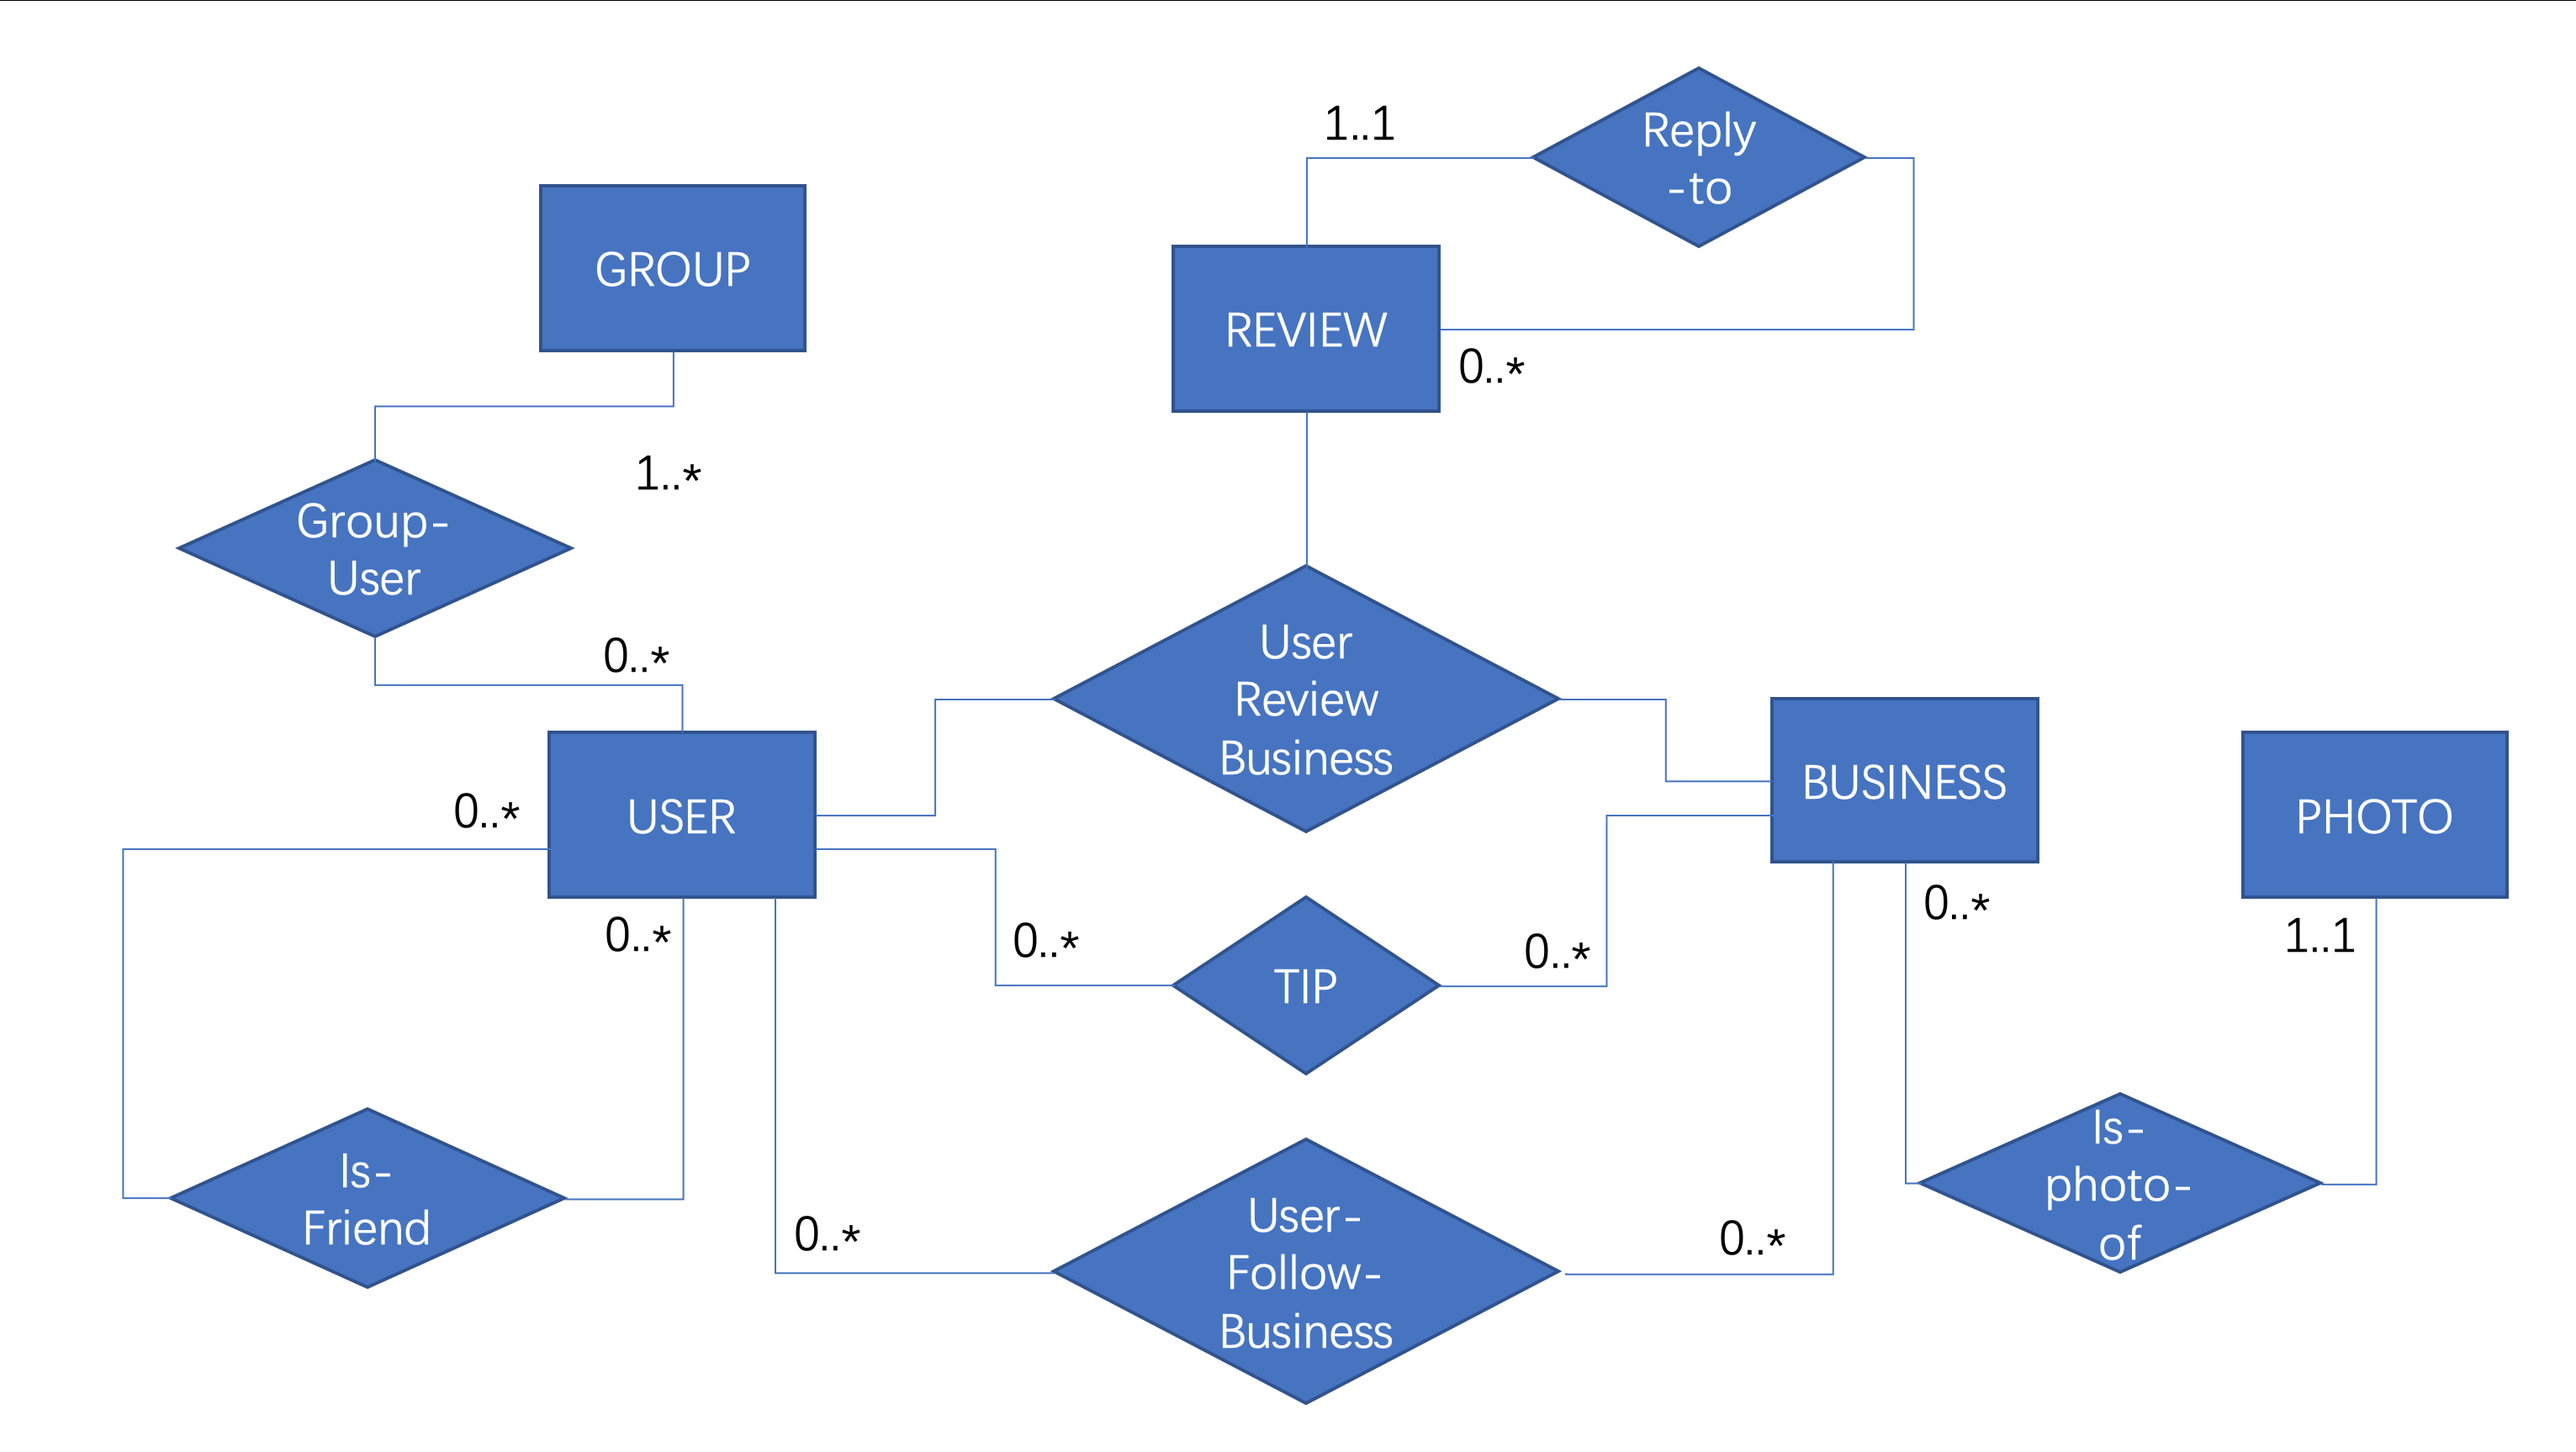
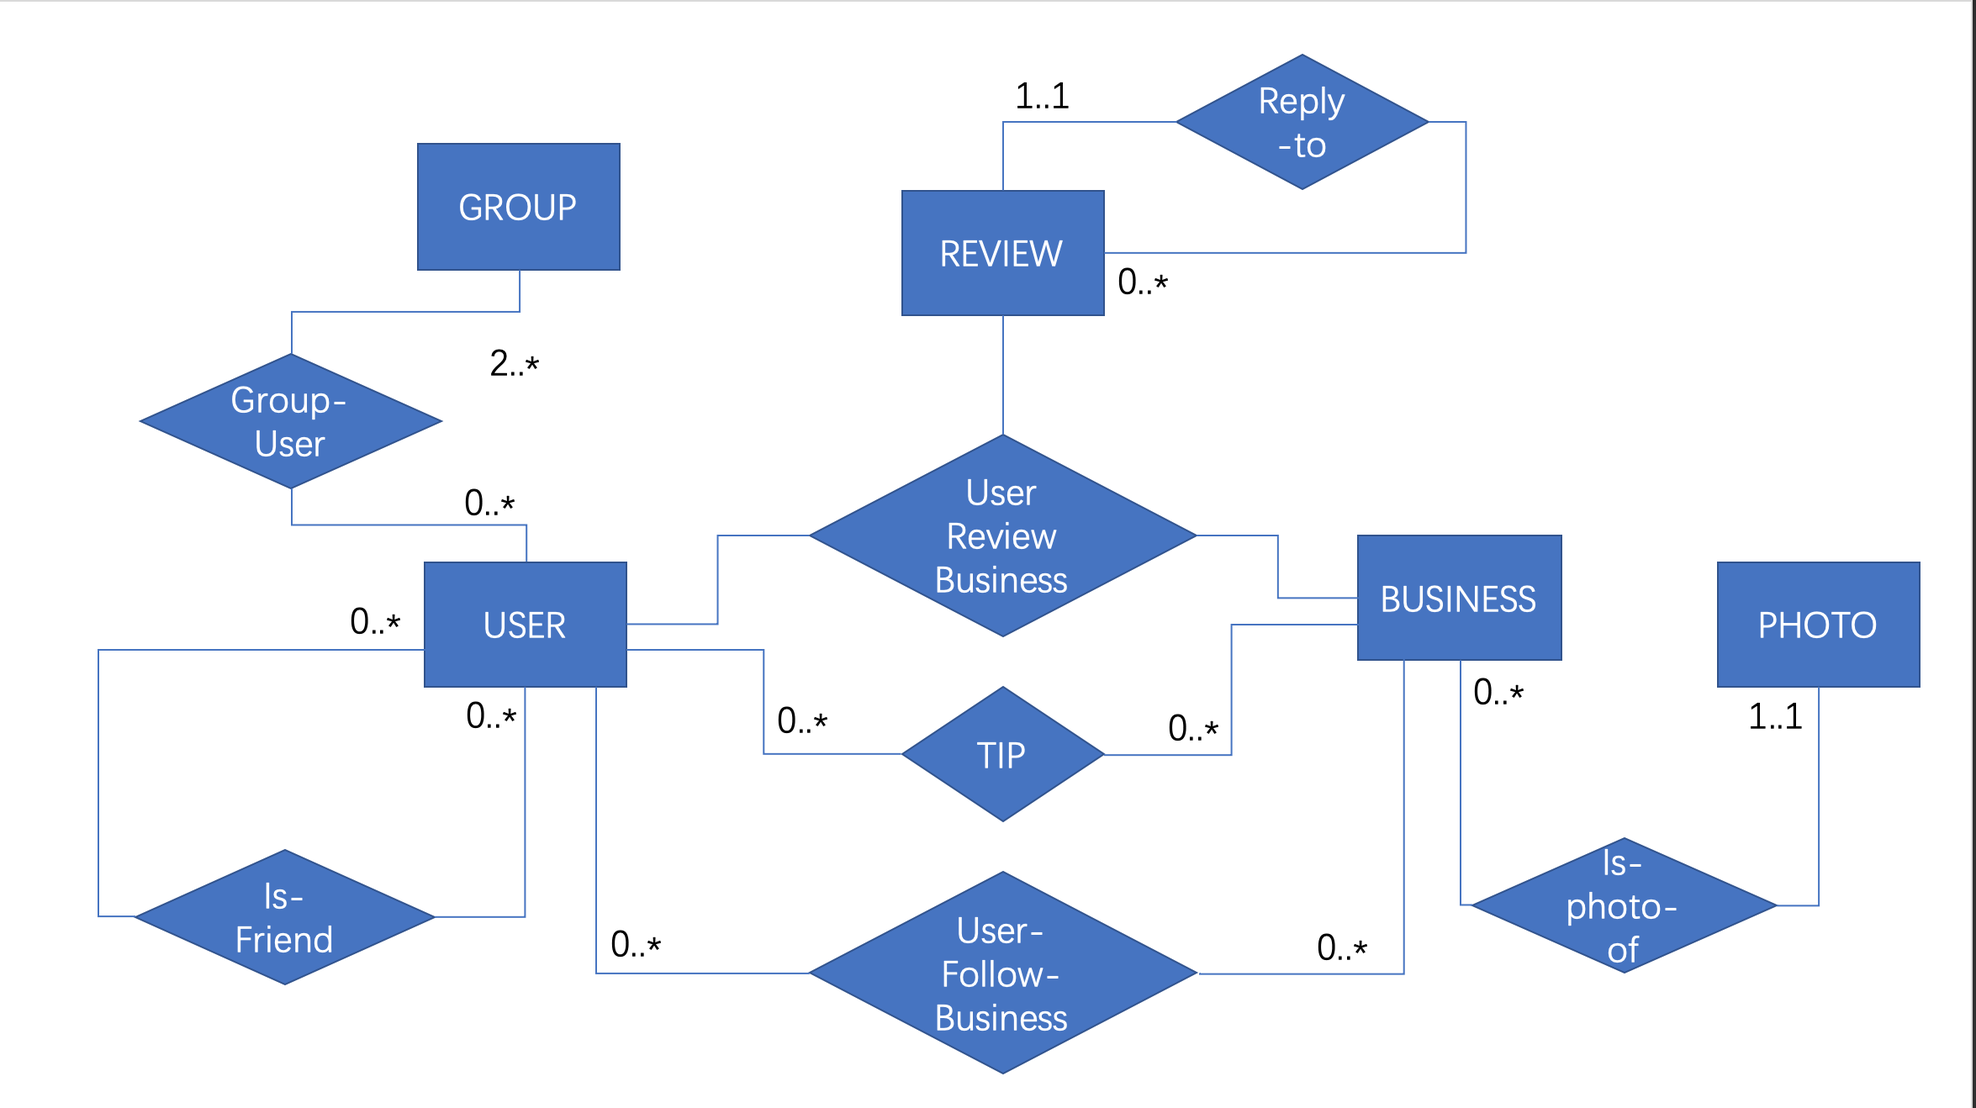
er model description

diff --git a/ECE656 Project Report Yelp Challenge.md b/ECE656 Project Report Yelp Challenge.md
@@ -10,11 +10,11 @@ In this project, we built a simple social network. First we created entity-relat
 
 #### 1. ER Model
 
+<img src="/Users/ivanleung/Desktop/ECE656/yelpChallenge/ER Model.png" alt="ER Model" style="zoom:50%;" />
 
 
-<img src="ER Model.png" alt="ER Model" style="zoom:50%;" />
 
-
+In the entity-relationship schema, we have 5 entities: User, Business, Review, Photo and Group. One user can have $0$ to $N$ friend(s), so there is a many-to-many relationships between users of Is-Friend relation. On the other hand, a user can be in $0$ to $N$ group(s) while a group must has at least 2 members. User can follow $0$ to $N$ Business while Business can be followed by $0$ to $N$ users,  so there is a many-to-many relationship for User-Follow-Business relation. The same situation applies to Tip relation: User can write $0$ to $N$ tips on a Business and Business can hold tips from many users. There is a ternary relationships between User, Review and Business, which means user can write review on a business. Also, review itself can be replied by another review, so there is a Reply-to relation. Finally, Business can has $0$ to $N$ photos while one photo must belong to one Business, so a Is-Photo-Of relationship is a one to many relation.
 
 #### 2. Create Tables
 
